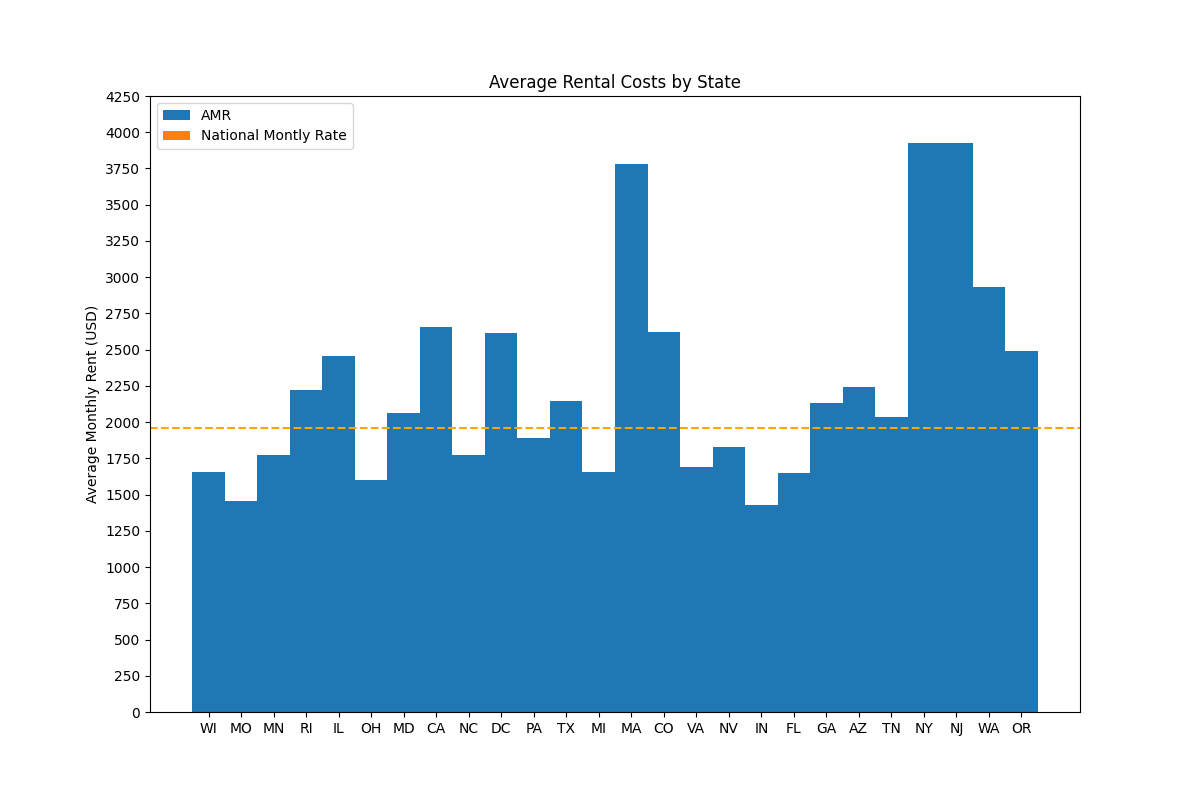
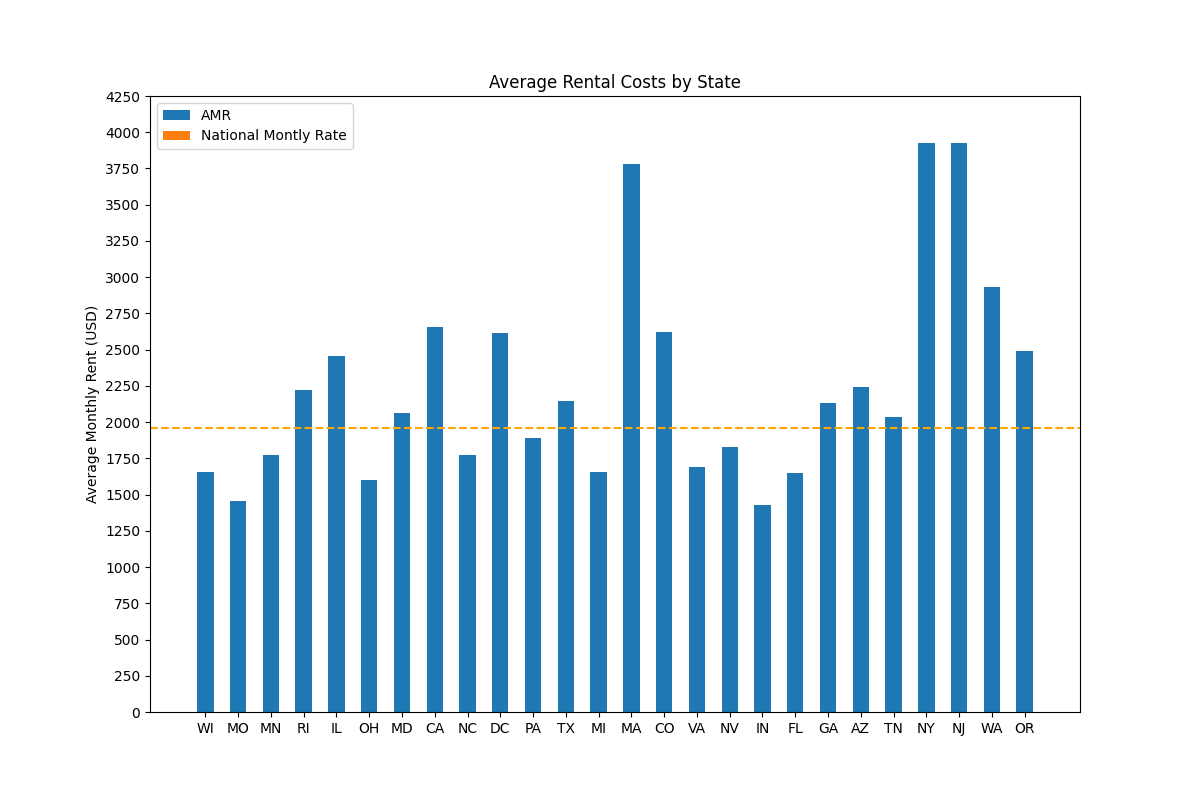
Final Project Updates

Changed region(s): [[0.1542, 0.1562, 0.8633, 0.9375]]

diff --git a/FinalProject.py b/FinalProject.py
@@ -74,7 +74,7 @@ def main():
     
     
     ind = np.arange(R)                                                                                        #Order of Bars 
-    width = 1                                                                                               #Width of Bar 
+    width = 0.5                                                                                               #Width of Bar 
     
     fig = plt.subplots(figsize = (12,8))
     
